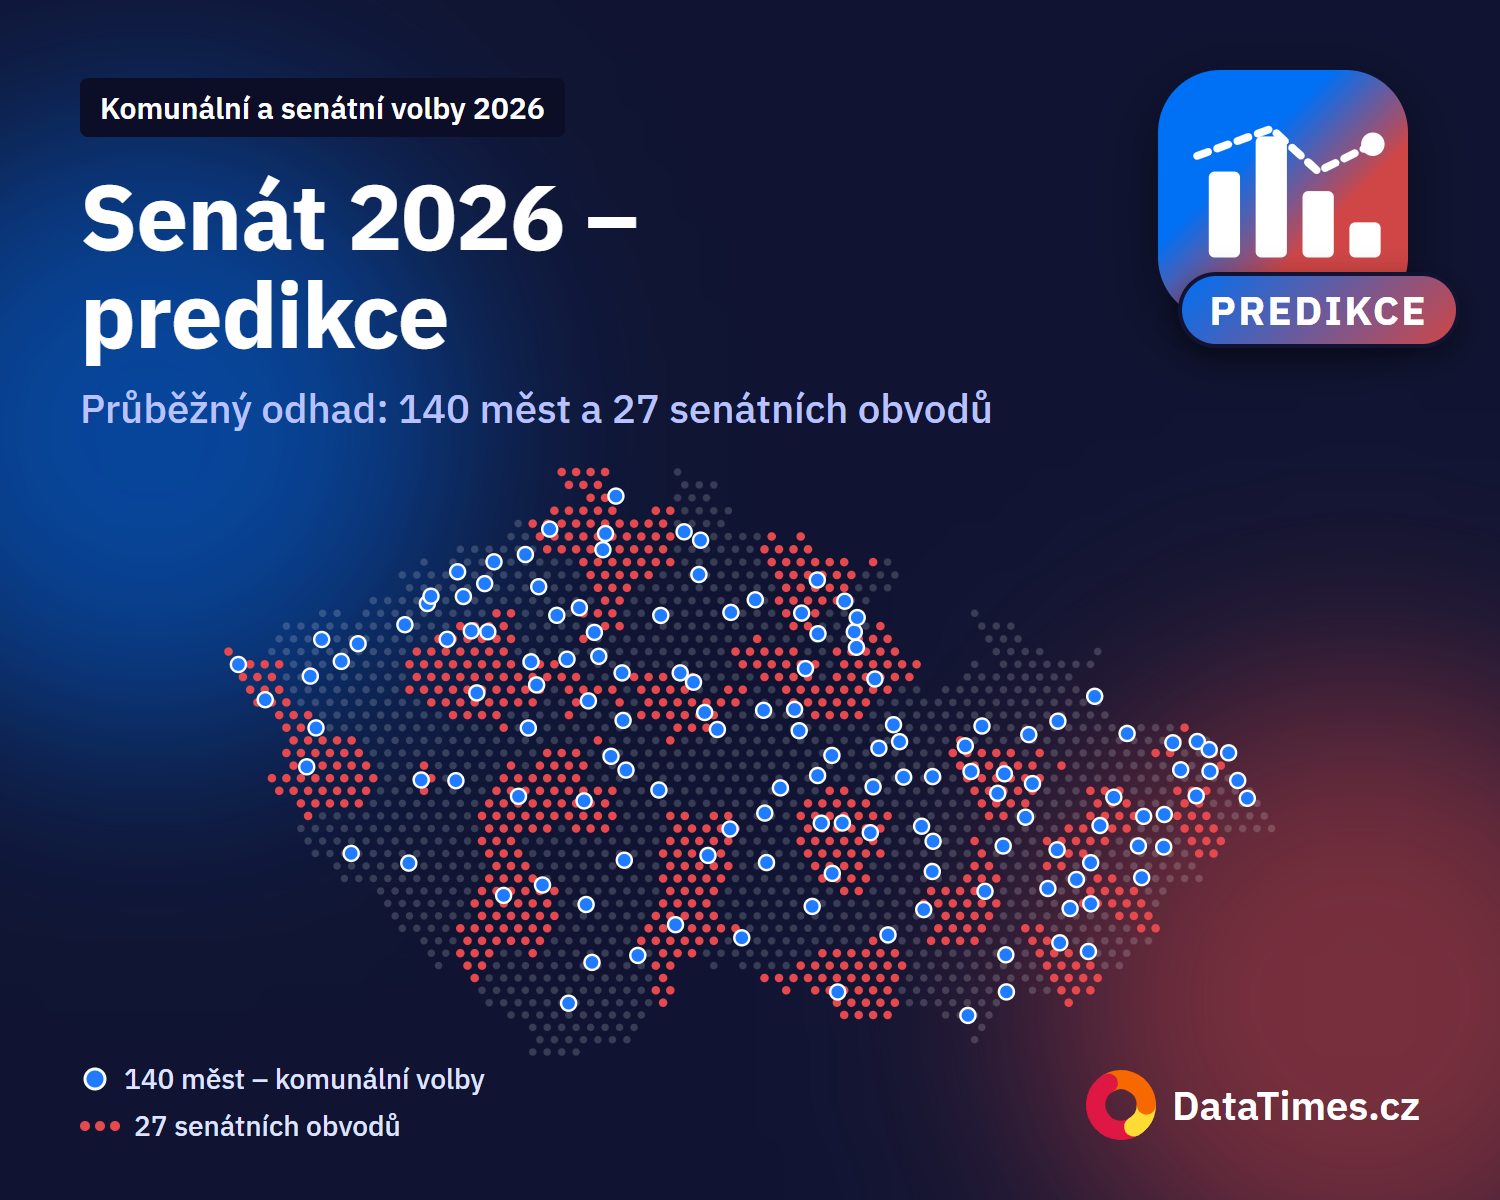
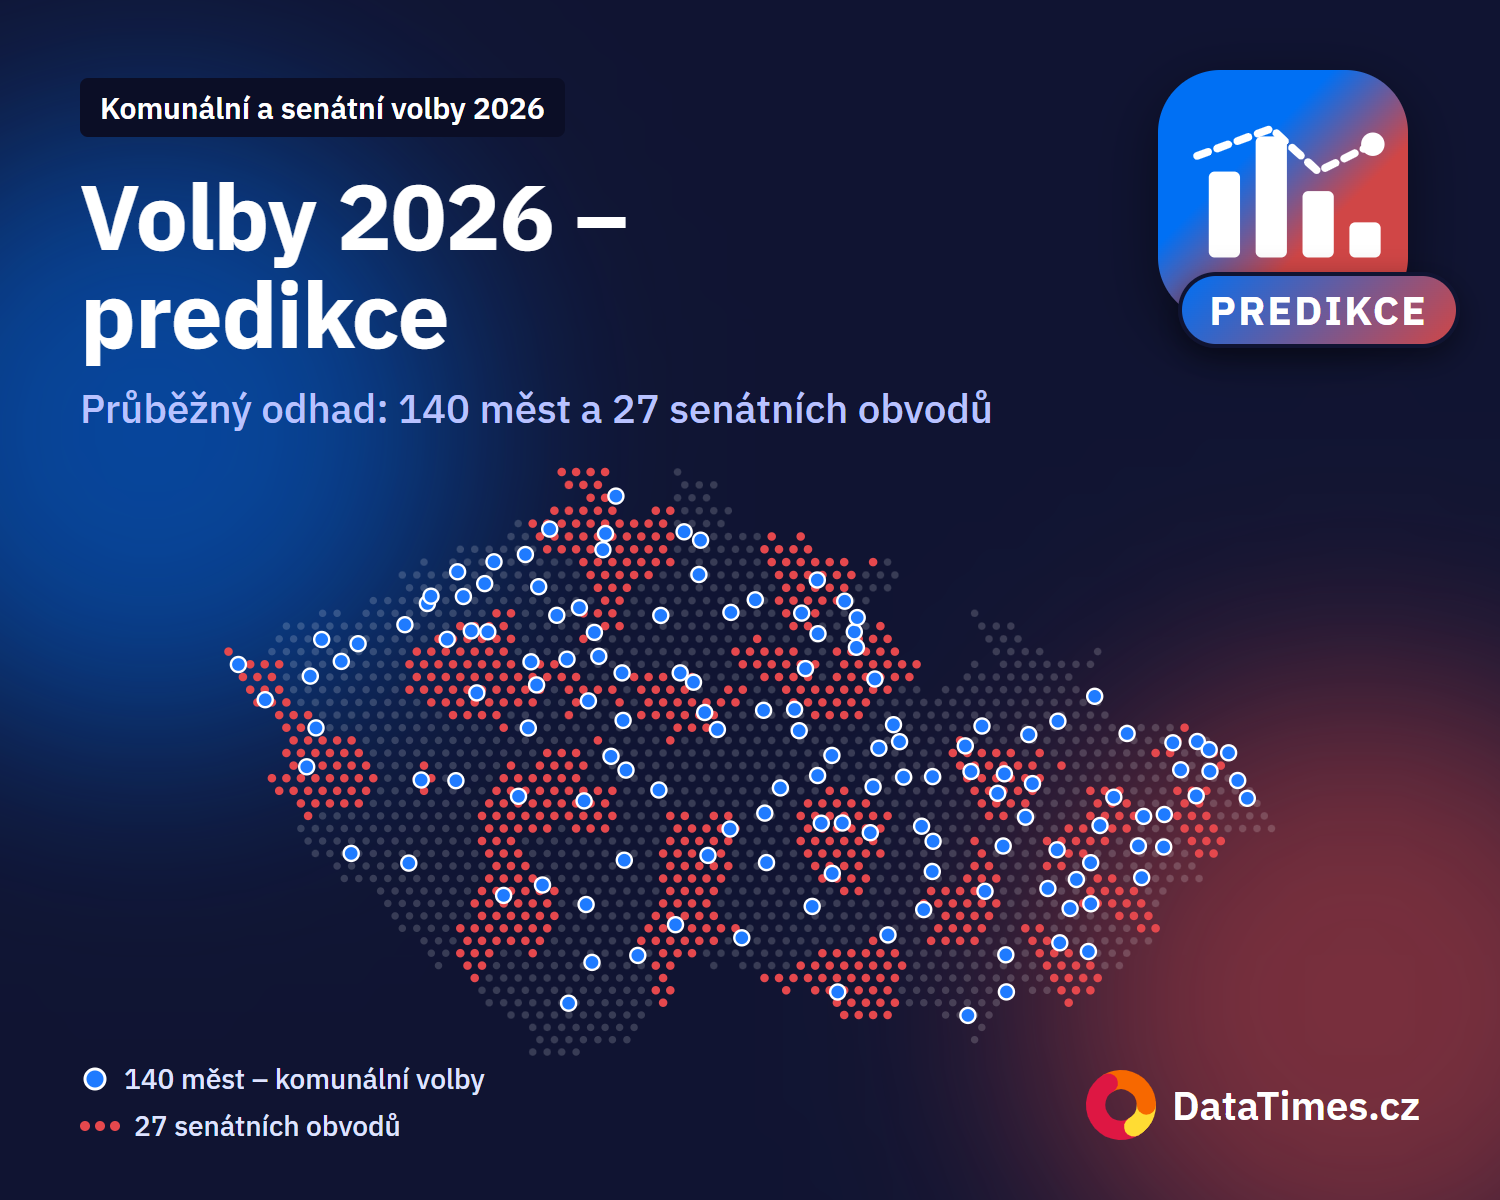
copy(volby 2026 predikce): titulek „Volby 2026 – predikce“ + cover; Vyškov doslova podle sítí

Changed region(s): [[0.0613, 0.1542, 0.3987, 0.2158]]

diff --git a/apps/web/app/clanek/_articles/volby-cr-2026-10-10-senat-2026-predikce/index.md b/apps/web/app/clanek/_articles/volby-cr-2026-10-10-senat-2026-predikce/index.md
@@ -1,5 +1,5 @@
 ---
-title: "Senát 2026 – predikce"
+title: "Volby 2026 – predikce"
 date: "2026-10-10"
 time: "16:37"
 author: "Kateřina Mahdalová & Michal Škop"
